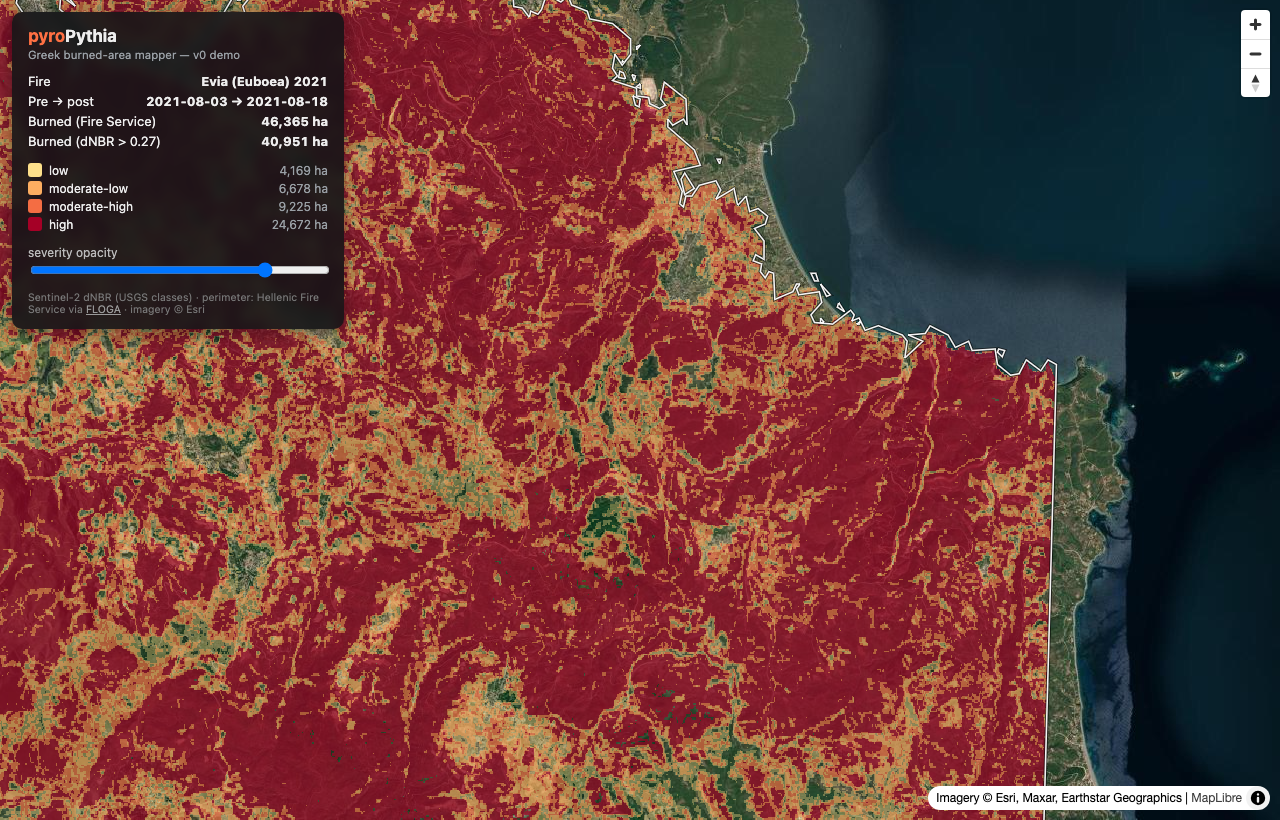
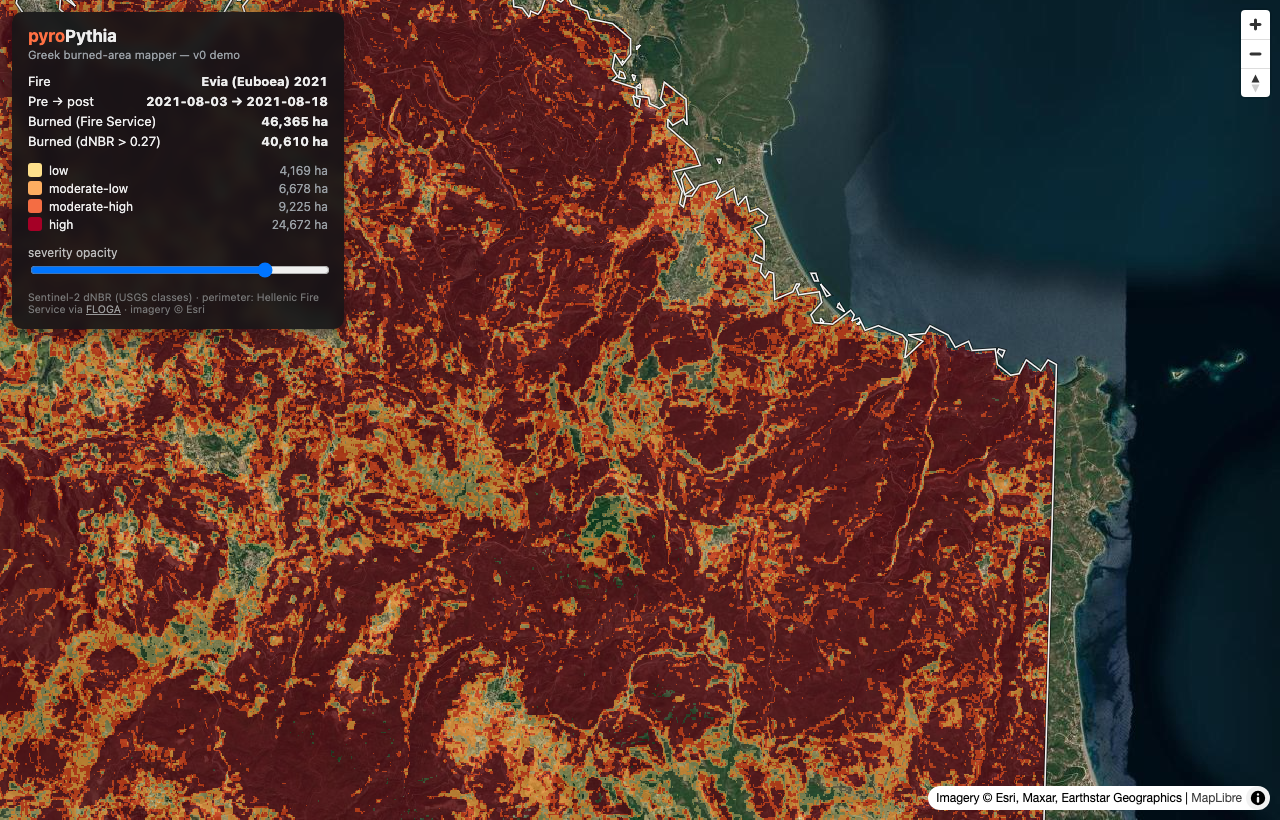
Severity palette: separate the two oranges, make dominant class readable
USGS ramp's fdae61/f46d43 are indistinguishable over satellite imagery,
and "high" is over half the Evia fire (24.7k ha) so the dominant class
must be unmistakable: now yellow -> amber -> vivid red -> deep maroon.

diff --git a/scripts/dnbr_evia.py b/scripts/dnbr_evia.py
@@ -23,7 +23,9 @@ B12, B8A = 7, 8  # SWIR2, narrow NIR
 # USGS dNBR severity thresholds (unscaled)
 SEV_BOUNDS = [-0.5, -0.1, 0.1, 0.27, 0.44, 0.66, 1.3]
 SEV_LABELS = ["regrowth", "unburned", "low", "moderate-low", "moderate-high", "high"]
-SEV_COLORS = ["#1a9850", "#f7f7f7", "#fee08b", "#fdae61", "#f46d43", "#a50026"]
+# hotter = worse, with hard steps between classes — the classic USGS ramp's
+# two oranges are indistinguishable over satellite imagery
+SEV_COLORS = ["#1a9850", "#f7f7f7", "#ffe08a", "#fb9a35", "#e8330f", "#5c0011"]
 BURN_THRESHOLD = 0.27  # moderate-low and up counts as burned for IoU/F1
 
 